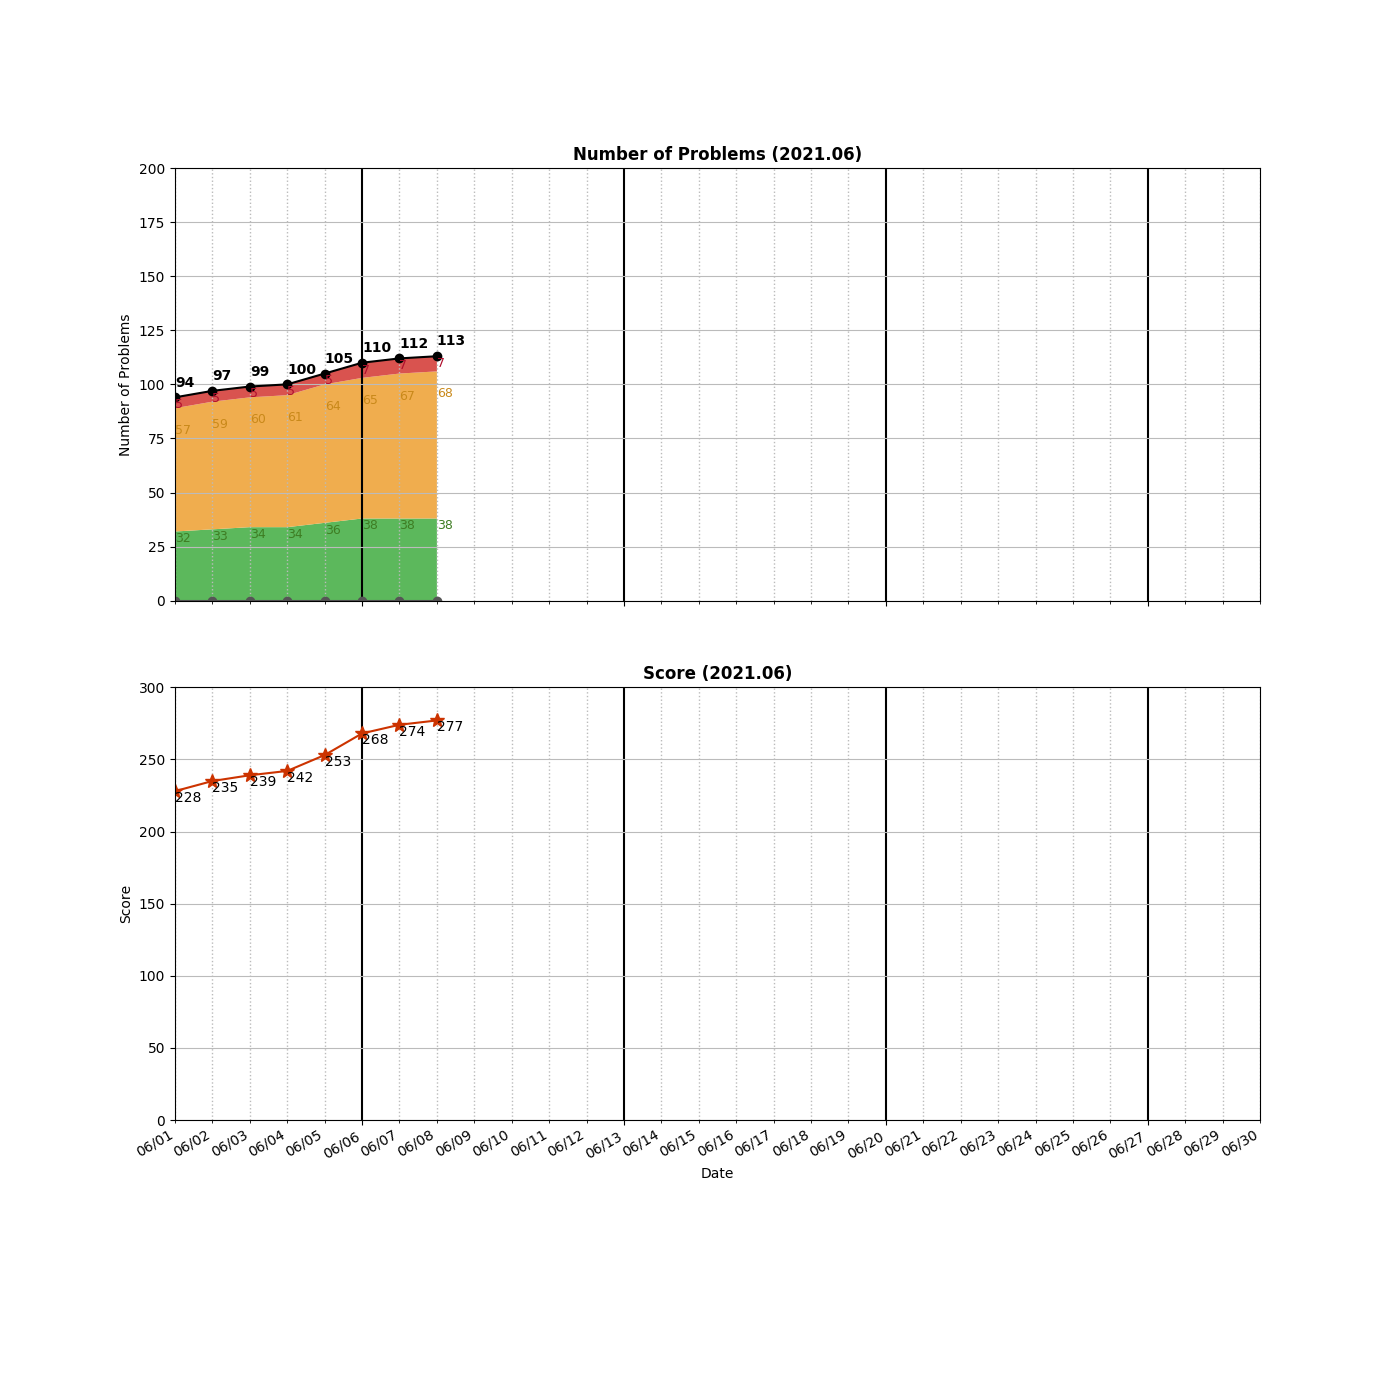
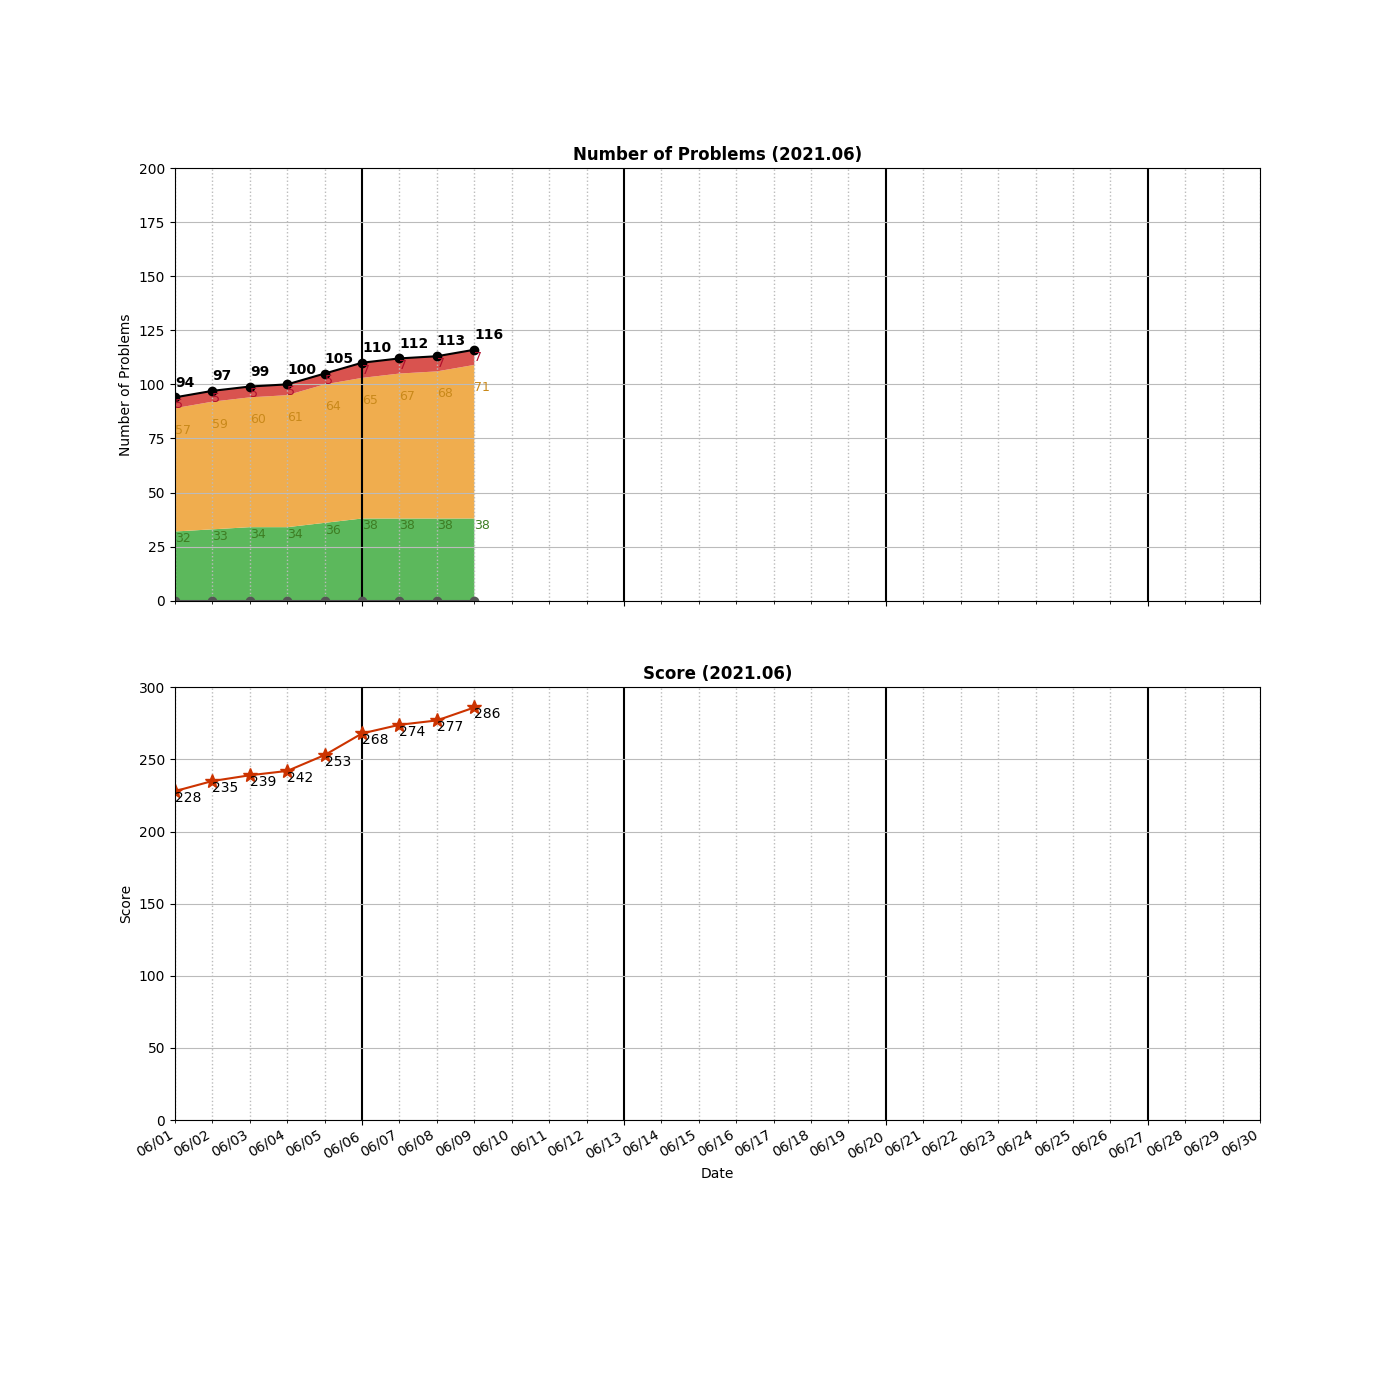
Added __0151__Reverse Words in a String.py

Changed region(s): [[0.3071, 0.2457, 0.3379, 0.43], [0.3379, 0.4914, 0.3686, 0.5221]]

diff --git a/algo/String/__0151__Reverse Words in a String.py b/algo/String/__0151__Reverse Words in a String.py
@@ -1,0 +1,7 @@
+class Solution:
+    def reverseWords(self, s: str) -> str:
+        if not s:
+            return s
+        
+        arr = s.split()
+        return ' '.join(arr[::-1])

diff --git a/README.md b/README.md
@@ -55,6 +55,8 @@ algo
 ├── DP
 │   ├── __0010__Regular\ Expression\ Matching.py
 │   ├── __0044__Wildcard\ Matching.py
+│   ├── __0062__Unique\ Paths.py
+│   ├── __0064__Minimum\ Path\ Sum.py
 │   ├── __0070__Climbing\ Stairs.py
 │   ├── __0120__Triangle.py
 │   ├── __0121__Best\ Time\ to\ Buy\ and\ Sell\ Stock.py
@@ -89,6 +91,7 @@ algo
 │   ├── __0020__Valid\ Parentheses.py
 │   └── __0155__Min\ Stack.py
 ├── String
+│   └── __0151__Reverse\ Words\ in\ a\ String.py
 ├── Tree
 │   ├── __0094__Binary\ Tree\ Inorder\ Traversal.py\ 
 │   ├── __0098__Validate\ Binary\ Search\ Tree.py
@@ -129,7 +132,7 @@ algo
     ├── __0969__Pancake\ Sorting.py
     └── __1099__Two\ Sum\ Less\ Than\ K.py
 
-15 directories, 113 files
+15 directories, 116 files
 
 =====================================
 ============= Local Repo ============
@@ -160,6 +163,8 @@ __0050__Pow(x, n).py
 __0051__N-Queens.py
 __0052__N-Queens II.py
 __0053__Maximum Subarray.py
+__0062__Unique Paths.py
+__0064__Minimum Path Sum.py
 __0070__Climbing Stairs.py
 __0074__Search a 2D Matrix.py
 __0075__Sort Colors.py
@@ -191,6 +196,7 @@ __0141__Linked List Cycle.py
 __0142__Linked List Cycle II.py
 __0144__Binary Tree Preorder Traversal.py
 __0146__LRU Cache.py
+__0151__Reverse Words in a String.py
 __0152__Maximum Product Subarray.py
 __0153__Find Minimum in Rotated Sorted Array.py
 __0155__Min Stack.py
@@ -247,7 +253,7 @@ __0973__K Closest Points to Origin.py
 __1099__Two Sum Less Than K.py
 __1429__First Unique Number.py
 =====================================
-Num of Python Practice:  112
+Num of Python Practice:  115
 
 
 =====================================
@@ -280,6 +286,8 @@ Num of Python Practice:  112
  0051 N-Queens
  0052 N-Queens II
  0053 Maximum Subarray
+ 0062 Unique Paths
+ 0064 Minimum Path Sum
  0070 Climbing Stairs
  0074 Search a 2D Matrix
  0075 Sort Colors
@@ -311,6 +319,7 @@ Num of Python Practice:  112
  0142 Linked List Cycle II
  0144 Binary Tree Preorder Traversal
  0146 LRU Cache
+ 0151 Reverse Words in a String
  0152 Maximum Product Subarray
  0153 Find Minimum in Rotated Sorted Array
  0155 Min Stack
@@ -368,10 +377,10 @@ Num of Python Practice:  112
  1429 First Unique Number
 =====================================
 Solved / Total (Easy)  :   38 /  496
-Solved / Total (Medium):   68 /  997
+Solved / Total (Medium):   71 /  997
 Solved / Total (Hard)  :    7 /  396
-Solved / Total (All)   :  113 / 1889
-Total Score            :  277
+Solved / Total (All)   :  116 / 1889
+Total Score            :  286
 =====================================
 
 ```
